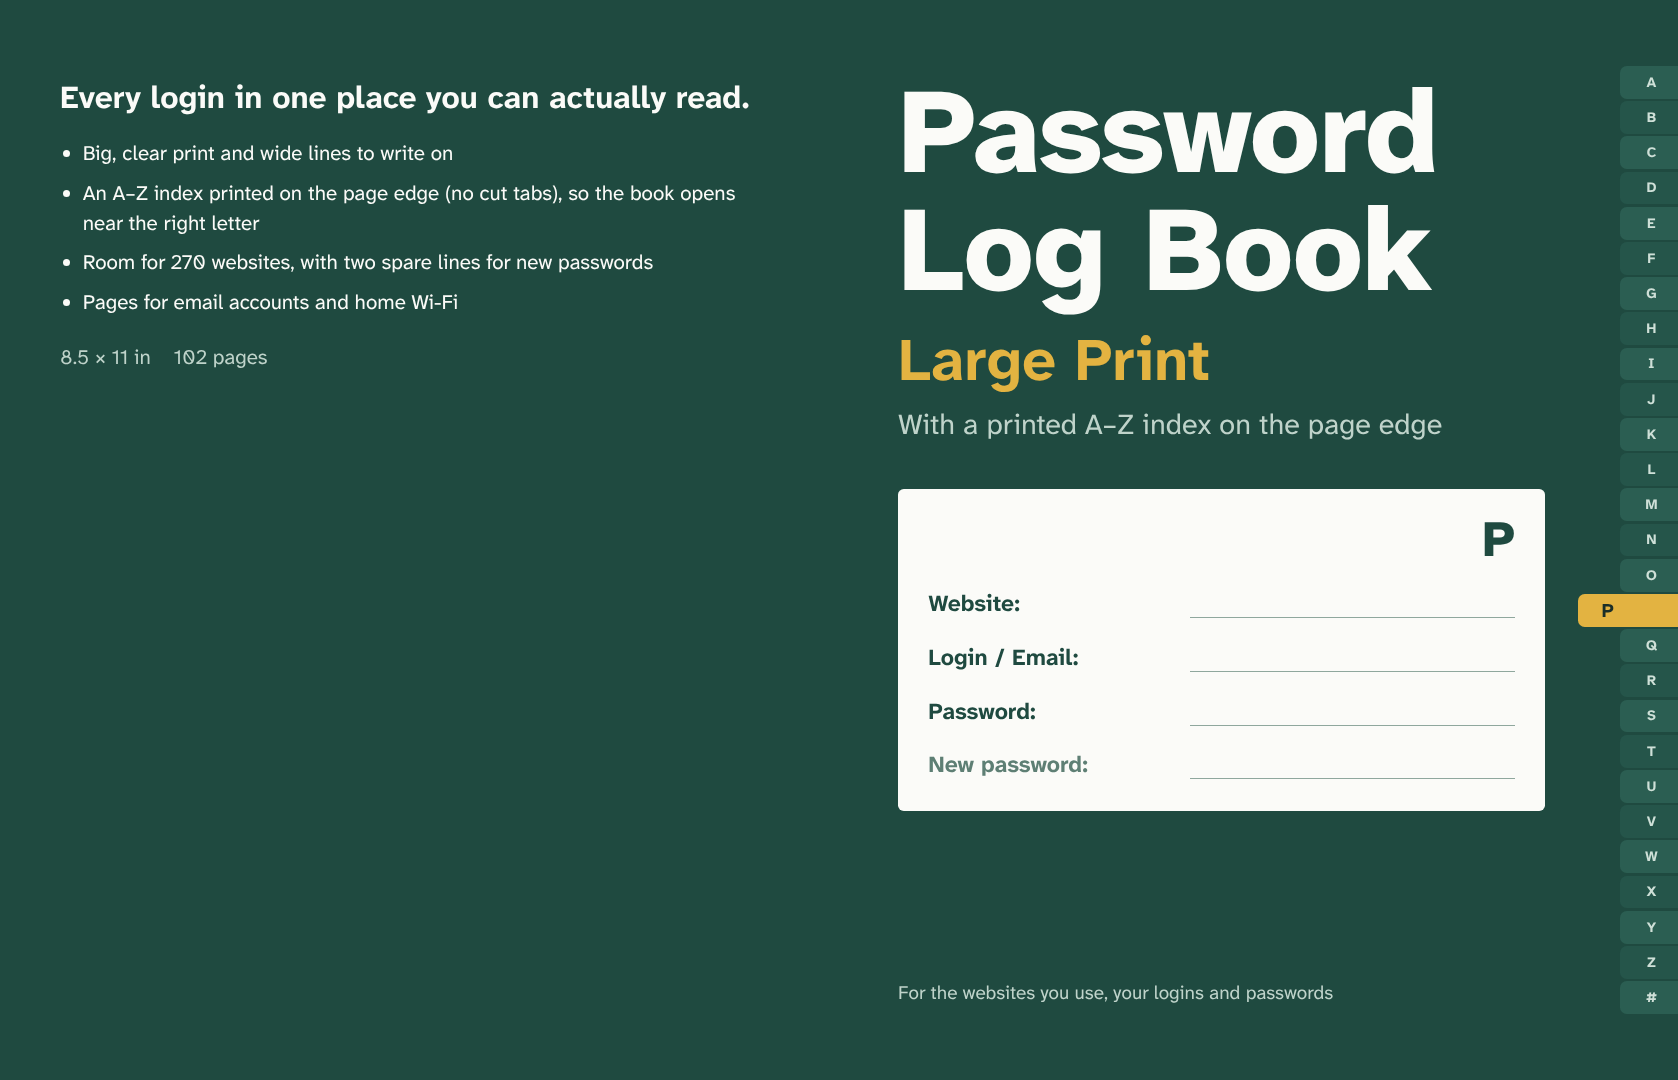
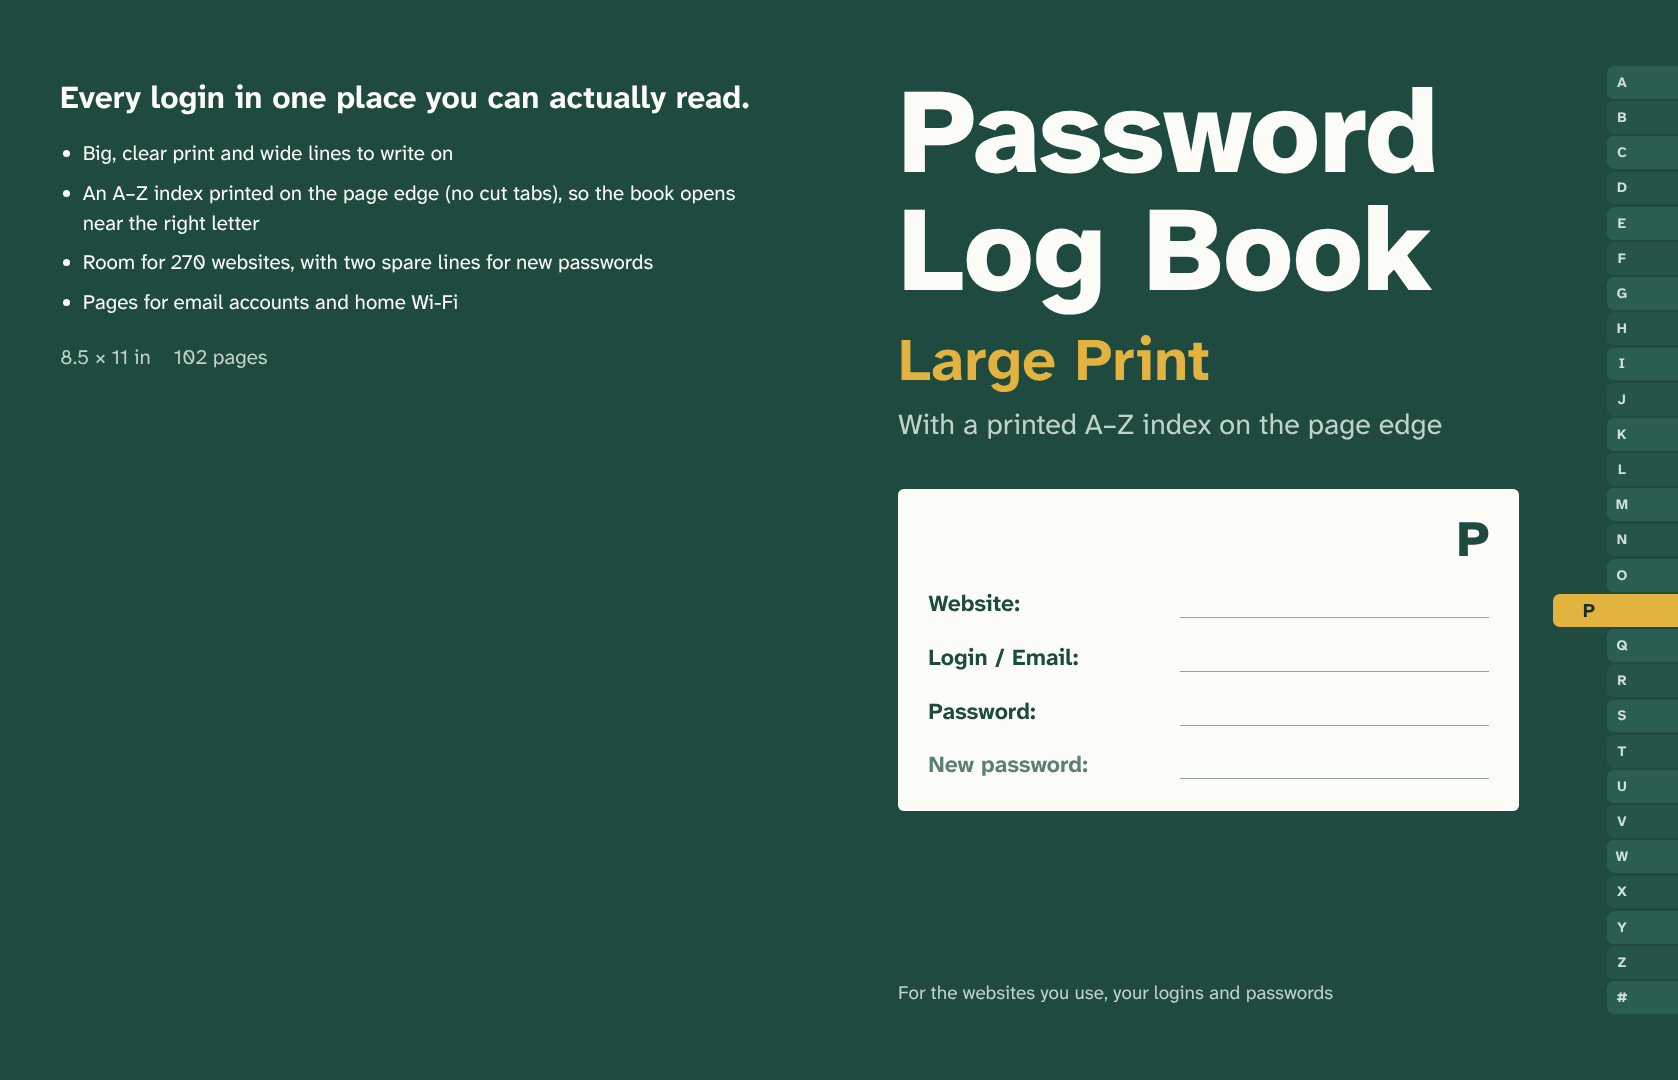
Okładka: litery na zakładkach ≥0.38" od linii cięcia (zapas na przesunięcie cięcia)
Claude-Session: https://claude.ai/code/session_01UJfvBnMCoAnWauXc8Hp5JK

Changed region(s): [[0.8677, 0.4583, 0.9607, 0.7639], [0.9607, 0.4583, 0.9917, 0.4889]]

diff --git a/books/password-log-book/cover/make_cover.py b/books/password-log-book/cover/make_cover.py
@@ -35,8 +35,8 @@ C = {
 }
 
 FORMATS = {
-    "8.5x11": dict(w=8.5, h=11.0, accounts=270, title=1.25, sub=0.30, body=0.165, tab_w=0.48, tab_font=0.15),
-    "6x9": dict(w=6.0, h=9.0, accounts=180, title=0.90, sub=0.23, body=0.135, tab_w=0.38, tab_font=0.12),
+    "8.5x11": dict(w=8.5, h=11.0, accounts=270, title=1.25, sub=0.30, body=0.165, tab_w=0.62, tab_font=0.15),
+    "6x9": dict(w=6.0, h=9.0, accounts=180, title=0.90, sub=0.23, body=0.135, tab_w=0.56, tab_font=0.12),
 }
 
 
@@ -60,13 +60,14 @@ def html(trim: str, pages: int) -> tuple[str, float, float]:
         bg = C["brass"] if pulled else (C["tab_a"] if i % 2 == 0 else C["tab_b"])
         ink = C["brass_ink"] if pulled else C["tab_ink"]
         fs = f["tab_font"] * (1.35 if pulled else 1.0)
-        # litera wyśrodkowana w widocznej (po przycięciu) części zakładki
-        span_style = "" if pulled else f"width:{f['tab_w']:.3f}in;text-align:center"
+        # litera ≥ 0.3" od linii cięcia (cięcie może się przesunąć o ~0.125"):
+        # siedzi przy wewnętrznym brzegu zakładki, a nie na jej środku
+        span_style = "" if pulled else f"width:{f['tab_w'] - 0.30:.3f}in;text-align:center"
         tabs.append(
             f'<div class="tab" style="left:{left:.4f}in;top:{top + i * th + 0.012:.4f}in;'
             f'width:{w + BLEED + 0.05:.4f}in;height:{th - 0.024:.4f}in;background:{bg};color:{ink};'
             f'font-size:{fs:.3f}in;padding-left:{(f["tab_w"] * 0.5 if pulled else 0):.3f}in;'
-            f'justify-content:{"flex-start" if pulled else "center"}">'
+            f'justify-content:flex-start">'
             f'<span style="{span_style}">{L}</span></div>')
     # zakładka P po wysunięciu nachodzi na przód – przesuwamy tekst, by go nie dotykała
     text_right = W - BLEED - f["tab_w"] * 1.9 - 0.35
